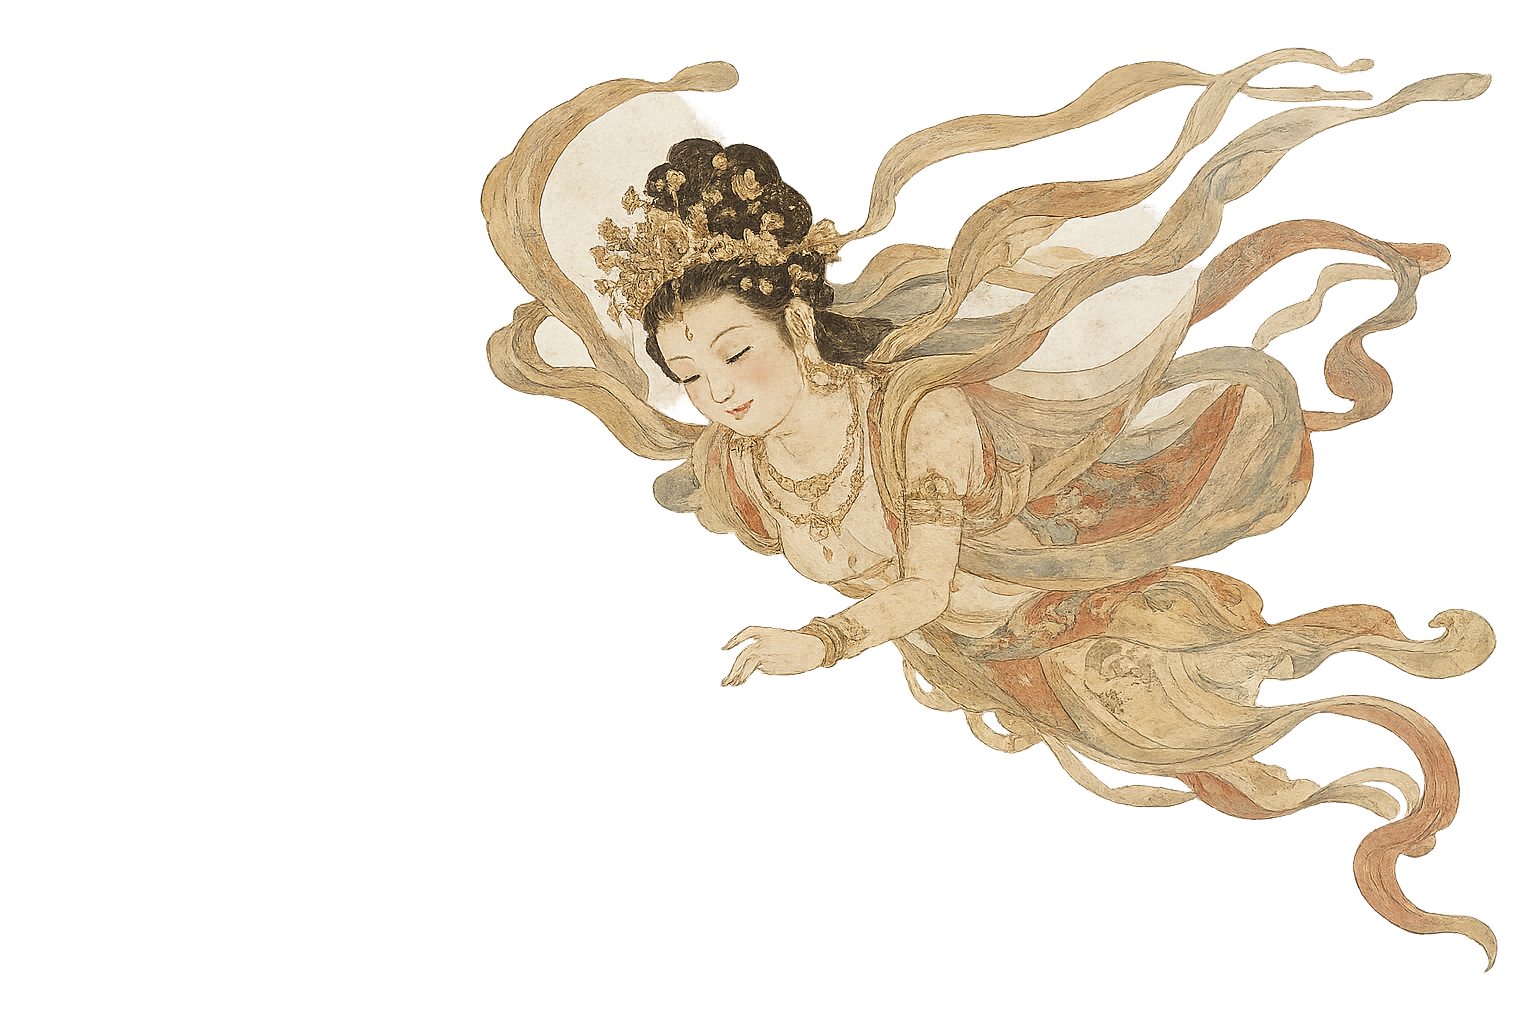
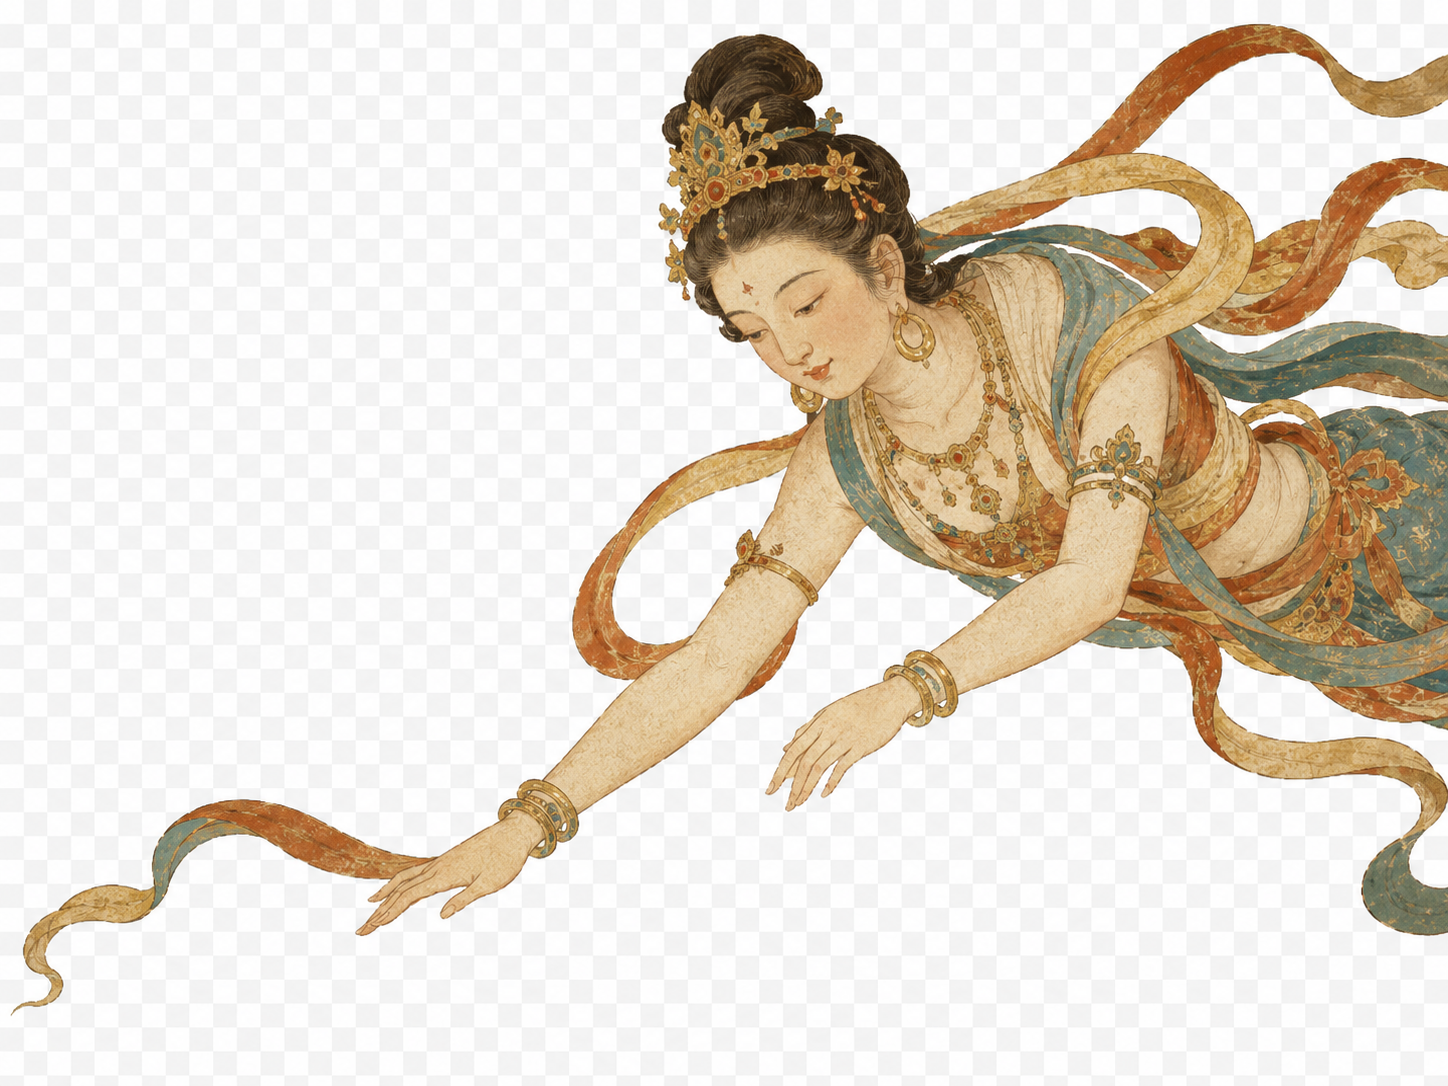
Update Character Gate styling and add new assets

diff --git a/index.html b/index.html
@@ -120,7 +120,7 @@ h1,h2,h3{font-weight:500;line-height:1.12}
 }
 .hero-img{
   position:absolute;inset:0;z-index:-2;
-  background:url('assets/anatomy.webp') center 24%/cover no-repeat;
+  background:url('assets/opeing.png') center/cover no-repeat;
   filter:saturate(1.05) contrast(1.02);
   animation:heroDevelop 3.4s ease-out both, kenburns 30s 3.4s ease-in-out infinite alternate;
 }
@@ -193,7 +193,7 @@ h1,h2,h3{font-weight:500;line-height:1.12}
 .character-gate{
   position:relative;z-index:3;
   min-height:100vh;
-  padding:110px 7vw 120px;
+  padding:70px 7vw 70px;
   background:
     radial-gradient(circle at 50% 0%, rgba(58,45,30,.16), transparent 42%),
     #070812;
@@ -204,7 +204,7 @@ h1,h2,h3{font-weight:500;line-height:1.12}
 }
 .gate-header{
   max-width:var(--maxw);
-  margin:0 auto 42px;
+  margin:0 auto 10px;
   display:grid;
   grid-template-columns:1.1fr .9fr;
   gap:70px;
@@ -219,56 +219,68 @@ h1,h2,h3{font-weight:500;line-height:1.12}
 }
 .gate-header h2{
   font-family:var(--font-cn);
-  font-size:clamp(2.4rem,5vw,4.6rem);
-  line-height:1.15;
+  font-size:clamp(44px,4vw,58px);
+  line-height:1.12;
+  letter-spacing:0.02em;
   font-weight:500;
   margin:0;
 }
 .gate-intro{
   font-family:var(--font-cn);
-  color:rgba(242,234,216,.62);
-  font-size:1.12rem;
-  line-height:1.9;
+  max-width:500px;
+  color:rgba(242,234,216,.58);
+  font-size:16px;
+  line-height:1.85;
   margin:0;
 }
 .painting-stage{
   position:relative;
   max-width:var(--maxw);
   width:100%;
-  height:590px;
+  height:500px;
   margin:0 auto;
   overflow:visible;
 }
+.painting-stage::before {
+  content: "";
+  position: absolute;
+  left: 12%;
+  right: 12%;
+  bottom: 13.5%;
+  height: 1px;
+  background: linear-gradient(to right, transparent, rgba(201, 162, 77, 0.26), transparent);
+  z-index: 5;
+}
 .stage-bg{
   position:absolute;
-  left:6%;
-  top:8%;
-  width:88%;
-  height:68%;
+  left:9%;
+  top:6%;
+  width:82%;
+  height:64%;
   object-fit:cover;
   z-index:1;
-  border:1px solid rgba(201,162,77,.3);
-  box-shadow:0 28px 80px rgba(0,0,0,.42);
-  filter:brightness(.82) saturate(.95);
+  border:1px solid rgba(201,162,77,.24);
+  box-shadow:0 24px 70px rgba(0,0,0,.38);
+  filter:brightness(.94) saturate(.96);
 }
 .painting-stage::after{
   content:"";
   position:absolute;
-  left:6%;
-  top:8%;
-  width:88%;
-  height:68%;
+  left:9%;
+  top:6%;
+  width:82%;
+  height:64%;
   pointer-events:none;
   z-index:2;
   background:
-    linear-gradient(to top, rgba(0,0,0,.62), rgba(0,0,0,.08)),
-    radial-gradient(circle at 26% 42%, rgba(0,0,0,.28), transparent 38%);
+    linear-gradient(to top, rgba(0,0,0,.36), rgba(0,0,0,.04)),
+    radial-gradient(circle at 27% 42%, rgba(0,0,0,.2), transparent 44%);
 }
 .chapter-text{
   position:absolute;
-  left:13%;
+  left:15%;
   top:22%;
-  width:420px;
+  width:390px;
   z-index:4;
   transition:opacity .35s ease, transform .35s ease;
 }
@@ -278,34 +290,34 @@ h1,h2,h3{font-weight:500;line-height:1.12}
 }
 #chapter-number{
   color:#c8a45c;
-  font-size:18px;
+  font-size:14px;
   letter-spacing:.18em;
   margin:0 0 10px;
 }
 #chapter-title{
   font-family:var(--font-cn);
-  font-size:clamp(2.1rem,4vw,3.25rem);
-  line-height:1.15;
+  font-size:36px;
+  line-height:1.18;
   font-weight:500;
-  margin:0 0 18px;
+  margin:0 0 14px;
   color:#f4ecd9;
 }
 #chapter-desc{
   font-family:var(--font-cn);
-  color:rgba(242,234,216,.72);
-  font-size:1.12rem;
+  color:rgba(242,234,216,.66);
+  font-size:15.5px;
   line-height:1.8;
   margin:0;
 }
 .hero-feitian{
   position:absolute;
-  right:-3%;
-  top:-22%;
-  width:34%;
+  right:7%;
+  top:4%;
+  width:21%;
   z-index:6;
   pointer-events:none;
   animation:heroFloat 5.2s ease-in-out infinite;
-  filter:drop-shadow(0 24px 18px rgba(0,0,0,.25));
+  filter:drop-shadow(0 18px 16px rgba(0,0,0,.28));
 }
 @keyframes heroFloat{
   0%,100%{transform:translateY(0) rotate(0deg)}
@@ -323,17 +335,17 @@ h1,h2,h3{font-weight:500;line-height:1.12}
   width:100%;
   display:block;
   transition:transform .45s ease, filter .45s ease, opacity .45s ease;
-  filter:brightness(.92) drop-shadow(0 16px 12px rgba(0,0,0,.3));
+  filter:brightness(0.88) saturate(0.92) drop-shadow(0 14px 10px rgba(0,0,0,.28));
 }
 .gate-person:hover img,.gate-person.active img{
-  transform:translateY(-12px) scale(1.04);
-  filter:brightness(1.14) drop-shadow(0 22px 18px rgba(0,0,0,.38));
+  transform:translateY(-10px) scale(1.035);
+  filter:brightness(1.08) saturate(1) drop-shadow(0 20px 16px rgba(0,0,0,.36));
 }
-.person-1{left:9%;bottom:1%;width:15%}
-.person-2{left:27%;bottom:4%;width:13%}
-.person-3{left:42%;bottom:0;width:13.5%}
-.person-4{left:58%;bottom:2%;width:13%}
-.person-5{left:73%;bottom:0;width:15%}
+.person-1{left:12%;bottom:12%;width:10.5%}
+.person-2{left:28%;bottom:14%;width:9.2%}
+.person-3{left:43%;bottom:11.5%;width:9.8%}
+.person-4{left:58%;bottom:12.5%;width:8.8%}
+.person-5{left:72%;bottom:12%;width:9.4%}
 
 .material-wall{position:relative;z-index:3;padding:5rem clamp(1.2rem,5vw,5rem);background:rgba(7,8,16,.96)}
 .material-inner{max-width:var(--maxw);margin:0 auto}